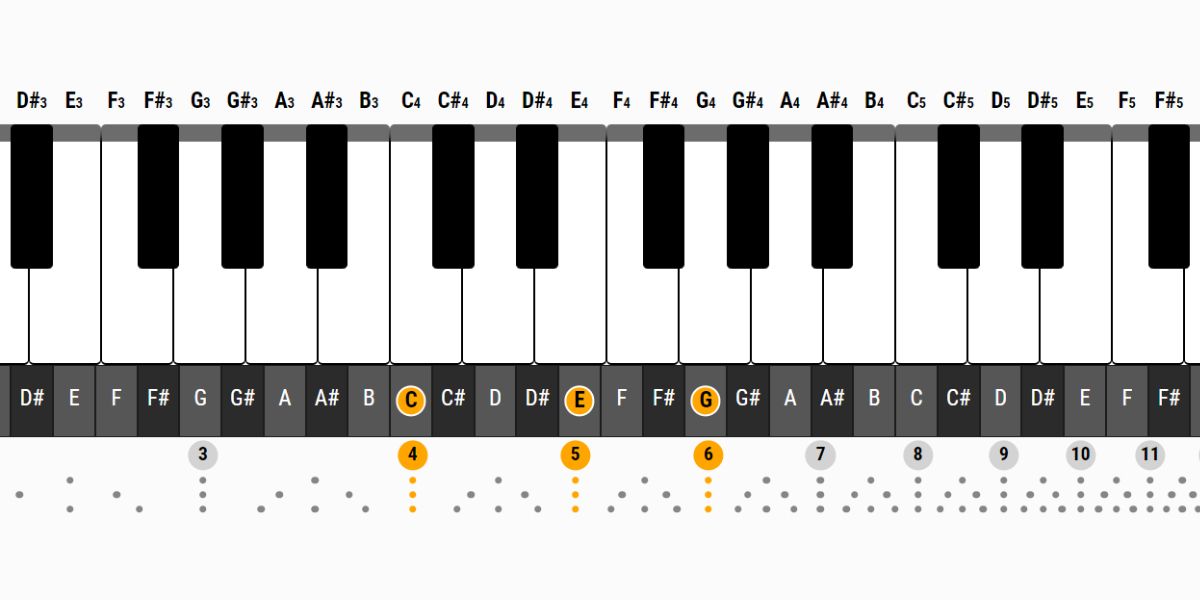
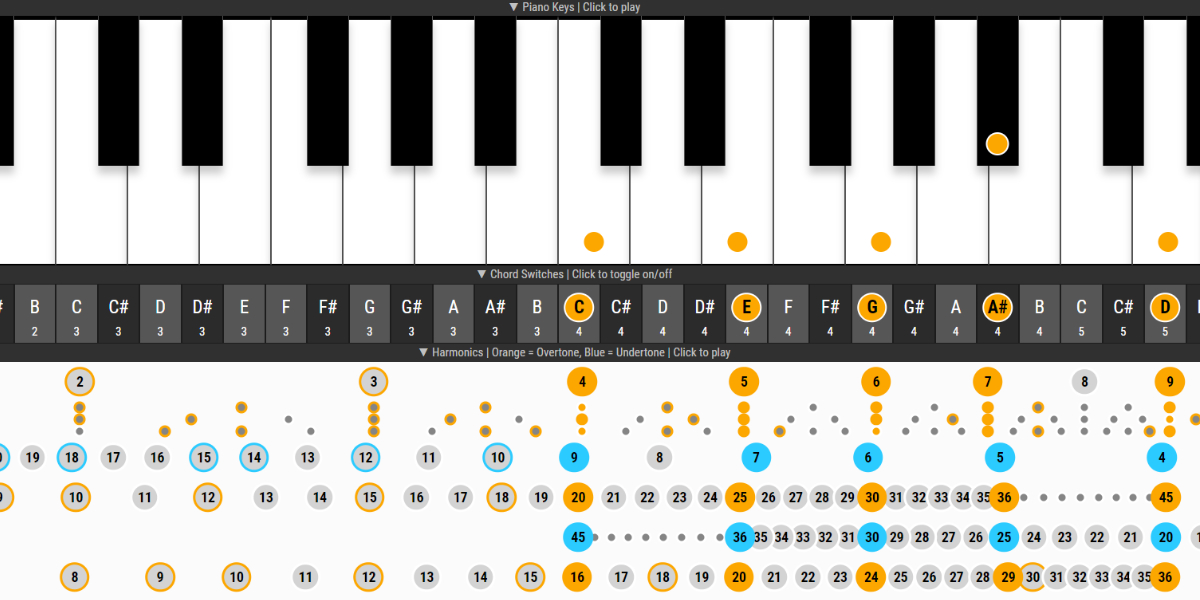
Better UI

diff --git a/src/App.vue b/src/App.vue
@@ -1,64 +1,79 @@
 <template>
   <div>
     <section>
-      <button @click="playEnabledKeys()">Play Enabled Keys</button>
-      <div>
-        <button @click="clearAllKeys()">Clear All Keys</button>
+      <div class="container">
+        <div>
+          <h1>
+            Chord Analyzer
+          </h1>
+        </div>
 
-        <select ref="key selector">
-          <option :value="i" v-for="i in toneNames" :key="i">{{ i }}</option>
-        </select>
-        <select ref="octave selector" value="4">
-          <option :value="i" v-for="i in [2, 3, 4, 5, 6]" :key="i">{{ i }}</option>
-        </select>
-        <select ref="chord selector">
-          <option :value="chord.keys" v-for="chord, i in chordDatabase.chords" :key="i">{{ chord.name }}</option>
-        </select>
-        <button @click="applyChords()">Apply Chords</button>
+        <div>
+          <button @click="clearAllKeys()">Clear All Keys</button>
+          <select ref="key selector">
+            <option :value="i" v-for="i in toneNames" :key="i">{{ i }}</option>
+          </select>
+          <select ref="octave selector" value="4">
+            <option :value="i" v-for="i in [2, 3, 4, 5, 6]" :key="i">{{ i }}</option>
+          </select>
+          <select ref="chord selector">
+            <option :value="chord.keys" v-for="chord, i in chordDatabase.chords" :key="i">{{ chord.name }}</option>
+          </select>
+          <button @click="applyChords()">Apply Chords</button>
+        </div>
+
+        <div>
+          <button @click="playEnabledKeys()">Play Enabled Keys</button>
+          <span>
+            Pitch Class and ratio = {{ pitchClass }}, {{ ratio }}
+          </span>
+        </div>
       </div>
-      <p>
-        Pitch Class and ratio = {{ pitchClass }}, {{ ratio }}
-      </p>
-
     </section>
     <section>
       <div class="scroll_horizontal">
 
-        <div class="piano_container" :style="{ width: fullWidth + 'px' }">
-          <!-- Note Name -->
-          <div class="piano_container-note_name">
-            <div :style="key.containerStyle" v-for="key in pianoKeys" :key="key.index">
-              <span>
-                {{ key.name }}
-              </span>
-              <span class="note_octave">
-                {{ key.octave }}
-              </span>
+        <div class="scroll_horizontal-sticky">
+          ▼ Piano Keys | Click to play
+        </div>
 
-            </div>
-          </div>
+        <div class="piano_container" :style="{ width: fullWidth + 'px' }">
+
           <!-- keyboard -->
           <div class="piano_container-keyboard">
-            <div :style="key.keyStyle" :class="key.cssClass" class="note_body" v-for="key in pianoKeys" :key="key.index" @click.prevent="pianoKeyClick(key)">
+            <div :style="key.keyStyle" :class="Object.assign(key.cssClass, { 'key_enabled': key.enable })" class="note_body" v-for="key in pianoKeys" :key="key.index" @click.prevent="pianoKeyClick(key)">
               <!-- {{ key.name }} -->
             </div>
           </div>
+        </div>
+
+        <div class="scroll_horizontal-sticky">
+          ▼ Chord Switches | Click to toggle on/off
+        </div>
+
+        <div class="piano_container" :style="{ width: fullWidth + 'px' }">
           <!-- Working area -->
           <div class="piano_container-editor">
             <div :style="key.containerStyle" :class="key.cssClass" class="note_box" v-for="key in pianoKeys" :key="key.index" @click.prevent="editorKeyClick(key)">
               <div :class="{ 'note_enable': key.enable }" class="note_box-tag">
                 {{ key.name }}
-                <!-- {{ key.enable }} -->
               </div>
+              <span class="note_octave">
+                {{ key.octave }}
+              </span>
+              <!-- {{ key.enable }} -->
             </div>
           </div>
+        </div>
 
+        <div class="scroll_horizontal-sticky">
+          ▼ Harmonics | Orange = Overtone, Blue = Undertone | Click to play
         </div>
 
         <!-- Result Area -->
         <div class="ratio_hint" :style="{ width: fullWidth + 'px' }">
-          <div class="ratio_hint-row" :class="{ 'is_higher_harmonics': hint.isHigherHarmonics }" v-for="hint, i in analyzeResult.hints" :key="i" @click="playHint(hint)">
-            <div class="ratio_hint-node" :style="node.style" :class="node.cssClass" v-for="node, i in hint.nodes" :key="i">
+          <div class="ratio_hint-row" :class="{ 'is_higher_harmonics': hint.isHigherHarmonics }" v-for="hint, i in analyzeResult.hints" :key="i" @click.prevent="playHint(hint)">
+            <div class="ratio_hint-node" :style="node.style" :class="node.cssClass" v-for="node, i in hint.nodes" :key="i" @click.prevent="playHint(hint, node)">
               <template v-if="!node.cssClass['node_is_minimize']">
                 {{ node.ratio }}
               </template>
@@ -68,6 +83,21 @@
 
       </div>
     </section>
+    <section>
+      <div class="container">
+        <div>
+          <h1>
+            How to use?
+          </h1>
+          <p>1. Click piano key to play sound.</p>
+          <p>2. Toggle the switchs to make a chord.</p>
+          <p>3. View and interact with harmonics.</p>
+        </div>
+      </div>
+    </section>
+    <footer>
+
+    </footer>
   </div>
 </template>
 
@@ -170,8 +200,12 @@ export default {
       const newUrl = `${window.location.protocol}//${window.location.host}${window.location.pathname}?keys=${keys}`
       window.history.pushState({}, '', newUrl)
     },
-    playHint(hint) {
-      sound.playNotes(hint.frequencies, 0.5)
+    playHint(hint, node) {
+      if (node === undefined) {
+        sound.playNotes(hint.frequencies, 0.5)
+      } else {
+        sound.playNotes([node.frequency], 0.5)
+      }
       this.ratio = hint.ratio
     }
   },

diff --git a/src/style/piano.scss b/src/style/piano.scss
@@ -6,9 +6,6 @@
         text-align: center;
         font-size: 18px;
         font-weight: bold;
-        .note_octave {
-            font-size: 8px;
-        }
     }
 
     &-keyboard {
@@ -20,6 +17,22 @@
             height: 60%;
         }
 
+        .key_enabled {
+            &::after {
+                content: "";
+                display: block;
+                width: 20px;
+                height: 20px;
+                background-color: orange;
+                position: absolute;
+                transform: translate(-50%, 0);
+                left: 50%;
+                bottom: 10px;
+                border-radius: 100%;
+                border: solid 2px white;
+            }
+        }
+
         .note_is_white {
             z-index: 0;
             border-bottom: solid 2px black;
@@ -27,15 +40,19 @@
             background-color: white;
             height: 100%;
         }
+
         .note_body {
             user-select: none;
-            border-left: solid 1px black;
-            border-right: solid 1px black;
-            border-radius: 4px;
+            border-left: solid 1px rgb(85, 85, 85);
+            border-right: solid 1px rgb(85, 85, 85);
             &:hover {
                 background-color: orange;
             }
+            &:active{
+                box-shadow: inset 0px 8px 16px rgba(0, 0, 0, 0.2);
+            }
             box-sizing: border-box;
+            box-shadow: 0px 8px 8px rgba(0, 0, 0, 0.2);
         }
     }
 
@@ -49,6 +66,7 @@
             background-color: rgb(86, 86, 86);
         }
         .note_box {
+            cursor: pointer;
             border: solid 1px rgb(28, 28, 28);
             text-align: center;
             color: white;
@@ -56,13 +74,16 @@
 
             &-tag {
                 position: relative;
-                height: 25px;
-                width: 25px;
-                top: 50%;
+                height: 30px;
+                width: 30px;
+                top: 40%;
                 left: 50%;
                 transform: translate(-50%, -50%);
                 pointer-events: none;
 
+                display: flex;
+                align-items: center;
+                justify-content: center;
                 &.note_enable {
                     font-weight: bold;
                     color: black;
@@ -74,7 +95,14 @@
                 }
                 box-sizing: border-box;
             }
-
+            .note_octave {
+                position: absolute;
+                left: 0px;
+                bottom: 4px;
+                width: 100%;
+                text-align: center;
+                font-size: 8px;
+            }
             box-sizing: border-box;
 
             &:hover {

diff --git a/src/style/index.scss b/src/style/index.scss
@@ -1,12 +1,48 @@
 @import url("https://fonts.googleapis.com/css2?family=Roboto+Condensed:wght@400;700&display=swap");
-@import './piano.scss';
-@import './ratiohint.scss';
+@import "./piano.scss";
+@import "./ratiohint.scss";
 html {
+    padding: 0;
+    margin: 0;
     font-family: "Roboto Condensed", sans-serif;
     background-color: rgb(251, 251, 251);
 }
-.scroll_horizontal{
+body{
+    padding: 0;
+    margin: 0;
+}
+.container{
+    margin: auto;
+    max-width: 1200px;
+    padding: 8px;
+    box-sizing: border-box;
+}
+button, select{
+    cursor: pointer;
+    height: 30px;
+    padding: 0px 8px;
+    border-radius: 20px;
+    box-sizing: border-box;
+    border: solid 1px gray;
+    background-color: rgb(235, 235, 235);
+    margin: 6px 2px;
+    &:hover{
+        background-color: white;
+    }
+}
+
+.scroll_horizontal {
     overflow-x: scroll;
     padding-bottom: 10px;
-    border: solid 2px lightgray;
+
+    &-sticky {
+        position: sticky;
+        text-align: center;
+        left: 0px;
+        width: 100%;
+        font-size: 12px;
+        background-color: rgb(48, 48, 48);
+        color: rgb(192, 192, 192);
+        padding: 2px 0px;
+    }
 }

diff --git a/src/style/ratiohint.scss b/src/style/ratiohint.scss
@@ -14,21 +14,28 @@
     }
 
     &-node {
+
+        cursor: pointer;
+        top: 50%;
         width: 30px;
         height: 30px;
 
         border-radius: 100%;
-        text-align: center;
-        font-weight: bold;
-
-        top: 50%;
         
-        transform: translate(-50%, -50%);
-
-        font-size: 18px;
+        font-size: 14px;
+        font-weight: bold;
         background-color: lightgray;
         box-sizing: border-box;
         border: solid 3px white;
+        
+        // Centering Text
+        text-align: center; 
+        display: flex;
+        justify-content: center;
+        align-items: center;
+        
+        // Centering Circle
+        transform: translate(-50%, -50%);
 
         &.node_is_minimize {
             width: 12px;

diff --git a/src/script/piano.js b/src/script/piano.js
@@ -5,7 +5,7 @@ const toneNumber = [0, 0, 1, 1, 2, 3, 3, 4, 4, 5, 5, 6]
 const toneIsBlack = [false, true, false, true, false, false, true, false, true, false, true, false]
 const f0 = 440 // A4
 const toneMap = {}
-let keyWidth = 7*7
+let keyWidth = 7*6
 
 for (let i = 0; i < 12; i++) {
     const name = toneNames[i]
